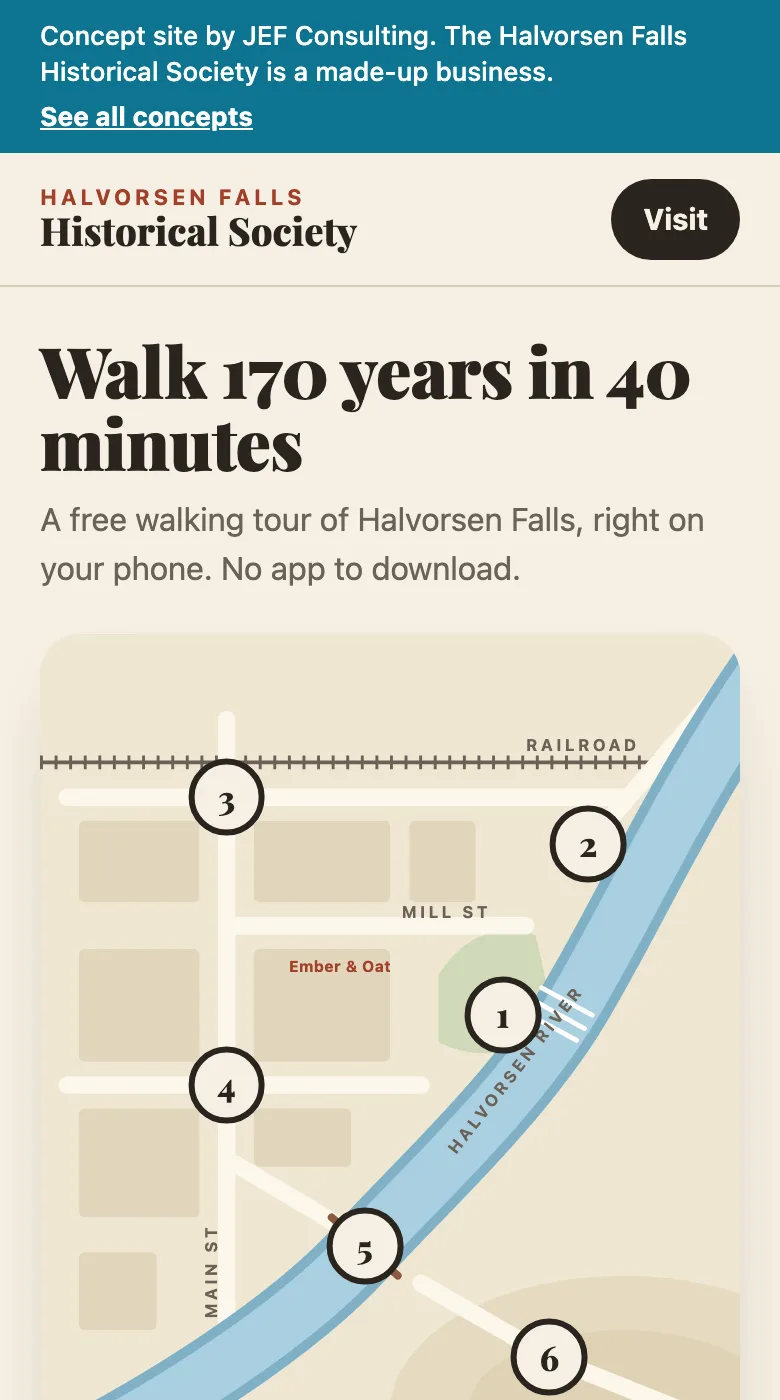
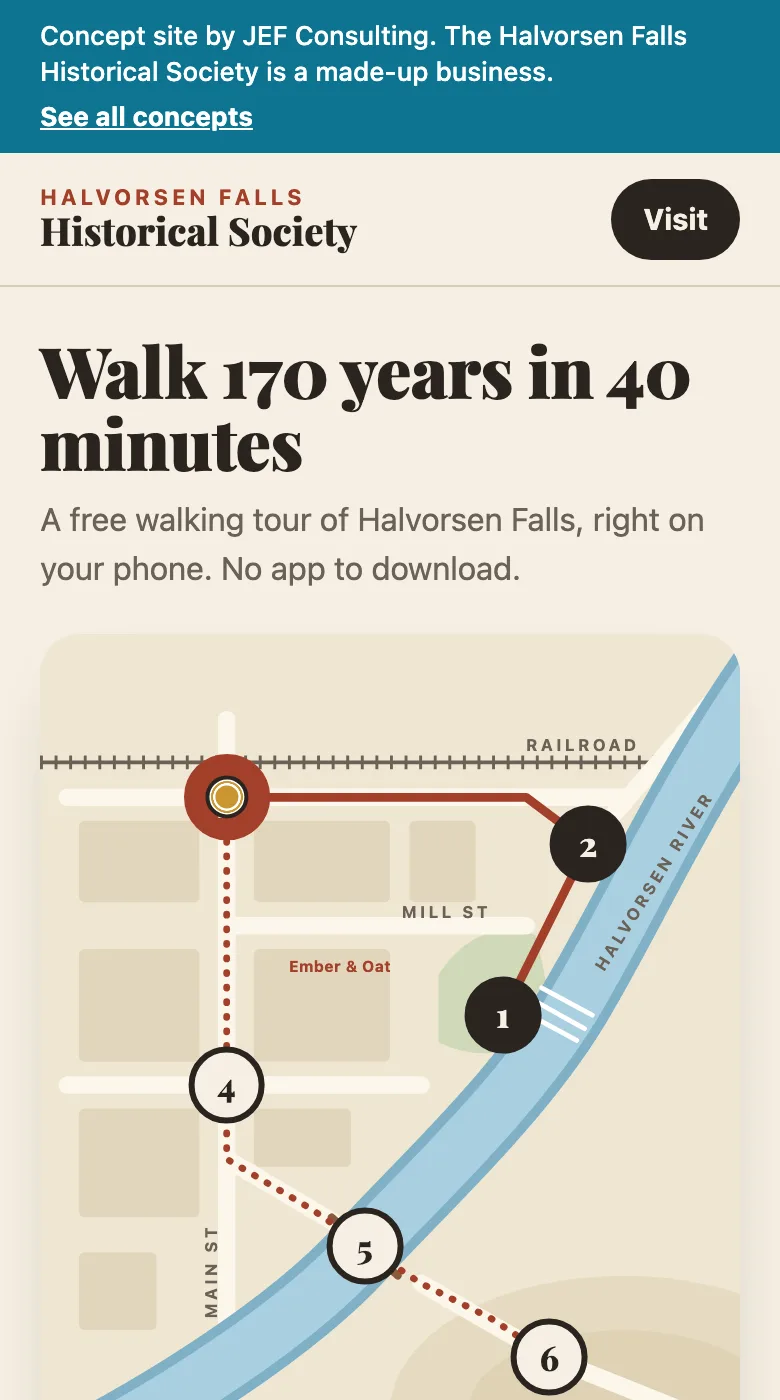
Historical Society: preview shot with the tour in progress; CLAUDE.md records the picks and next concepts

diff --git a/CLAUDE.md b/CLAUDE.md
@@ -79,13 +79,13 @@ A wow-first gallery Joey can text to a prospect: "a tour of Halvorsen Falls," a 
   - no third-party requests
   - every `[data-demo]` action ends in a "This is a demo" notice
   - no fake reviews, testimonials, or customer counts; no photos of people posing as staff
-- **Names (web-checked 2026-10-02 for collisions with real businesses):** Pine & Pitch Climbing (built), Ember & Oat (café, built), Halvorsen Falls Historical Society (walking-tour map), Larch Street Dental, Fjeldheim Builders. The Minnesota SOS business search wasn't checked.
+- **Names (web-checked 2026-10-02 for collisions with real businesses):** Pine & Pitch Climbing (built), Ember & Oat (café, built), Halvorsen Falls Historical Society (walking tour, built), Larch Street Dental, Fjeldheim Builders. The Minnesota SOS business search wasn't checked.
 - **Offer and outreach role (2026-11-22):** the gallery publishes the site plan, JEF's monthly website offer (`[data-offer]`: $19/month, $0 down, changes billed by the hour, the site is theirs after 12 months, and it works with the client's own ordering, booking and payment apps so customers pay them directly; tested in `showcase.test.ts`). Client money never passes through JEF (decided 2026-11-23, JEF HQ `CONTEXT.md`). Joey set $19 on 2026-11-22 (after $249, then $99) so it undercuts what local businesses already pay Squarespace, Wix or GoDaddy ($16–46/mo), not just done-for-you providers. `/showcase` is the link in every cold email of JEF's outreach plan (JEF HQ `streams/tech-projects/outreach-plan.md`).
 - **Visuals:** illustrated/generated, no stock photos. Unsplash search mixes in paid Unsplash+ images, so photos only if Joey picks ones confirmed free.
 
 **Next steps (in order):**
 1. ~~Joey reviews Pine & Pitch~~ (approved 2026-11-22). **Ember & Oat built 2026-11-22**: drag the sun across an illustrated café front (slider or sideways drag on the scene) and the light, the window and the menu follow the time of day; pickup times follow the clock; `?at=HH:MM` sets the starting time. Behavior tests in `client/src/showcase-ember-and-oat.test.ts`. **Next: Joey reviews it on his phone** at the branch preview (`https://joeyfarah-dev-git-showcase-tracer-joey-farahs-projects.vercel.app/showcase/ember-and-oat`, Vercel login required).
-2. Build the remaining three concepts, one slice each, each with its own look and one interactive wow moment: Historical Society (illustrated walking-tour map), Larch Street Dental (appointment picker), Fjeldheim Builders (before/after slider, quote form). For each: add a folder, make its Main Street building a link, add a gallery card and a `/work` examples card, run `npm run shots`, and remove it from "Opening soon."
+2. Build the remaining concepts, one slice each, each with its own look and one interactive wow moment. Joey picked the moments on 2026-11-23 (C, B, B on the pick sheet). **Historical Society built 2026-11-23** (`historical-society/`): start the walking tour and a dot walks the route on an illustrated town map, stop by stop, with each stop's story, the walk time to the next stop, Previous/Next, tappable stops and a finish that points into the museum. `?stop=N` opens the tour at a stop (the code on each stop's sign). Behavior tests are in `client/src/showcase-historical-society.test.ts`. **Next: Larch Street Dental**, "Show us where it hurts": tap the sore spot on an illustrated smile, answer one question, and get the right kind of visit with open times, ending in booking. **Then Fjeldheim Builders**, "Sketch your project": pick a project, size and finish; the drawing and a ballpark range (made up and labeled as a demo) update as you go, ending in a quote request with the details filled in. For each: add a folder, make its Main Street building a link, add a gallery card and a `/work` examples card, run `npm run shots`, and remove it from "Opening soon."
 3. ~~Link `/work` → `/showcase`~~ (done 2026-11-22: "Tap through a few." section with a preview per concept; four across on desktop).
 4. ~~Fresh review and PR body~~ (done 2026-11-22: a fresh-eyes review found 5 Ember & Oat bugs and some accessibility gaps, all fixed with tests; PR body rewritten). Re-run a review after the last concepts land, then merge with Joey's OK. **Merging to `main` deploys to production.**
 5. Later: add Afton as the first real client example after the Oct 12 proposal (confirm with the Afton session); Status gym only once Lucas agrees.
